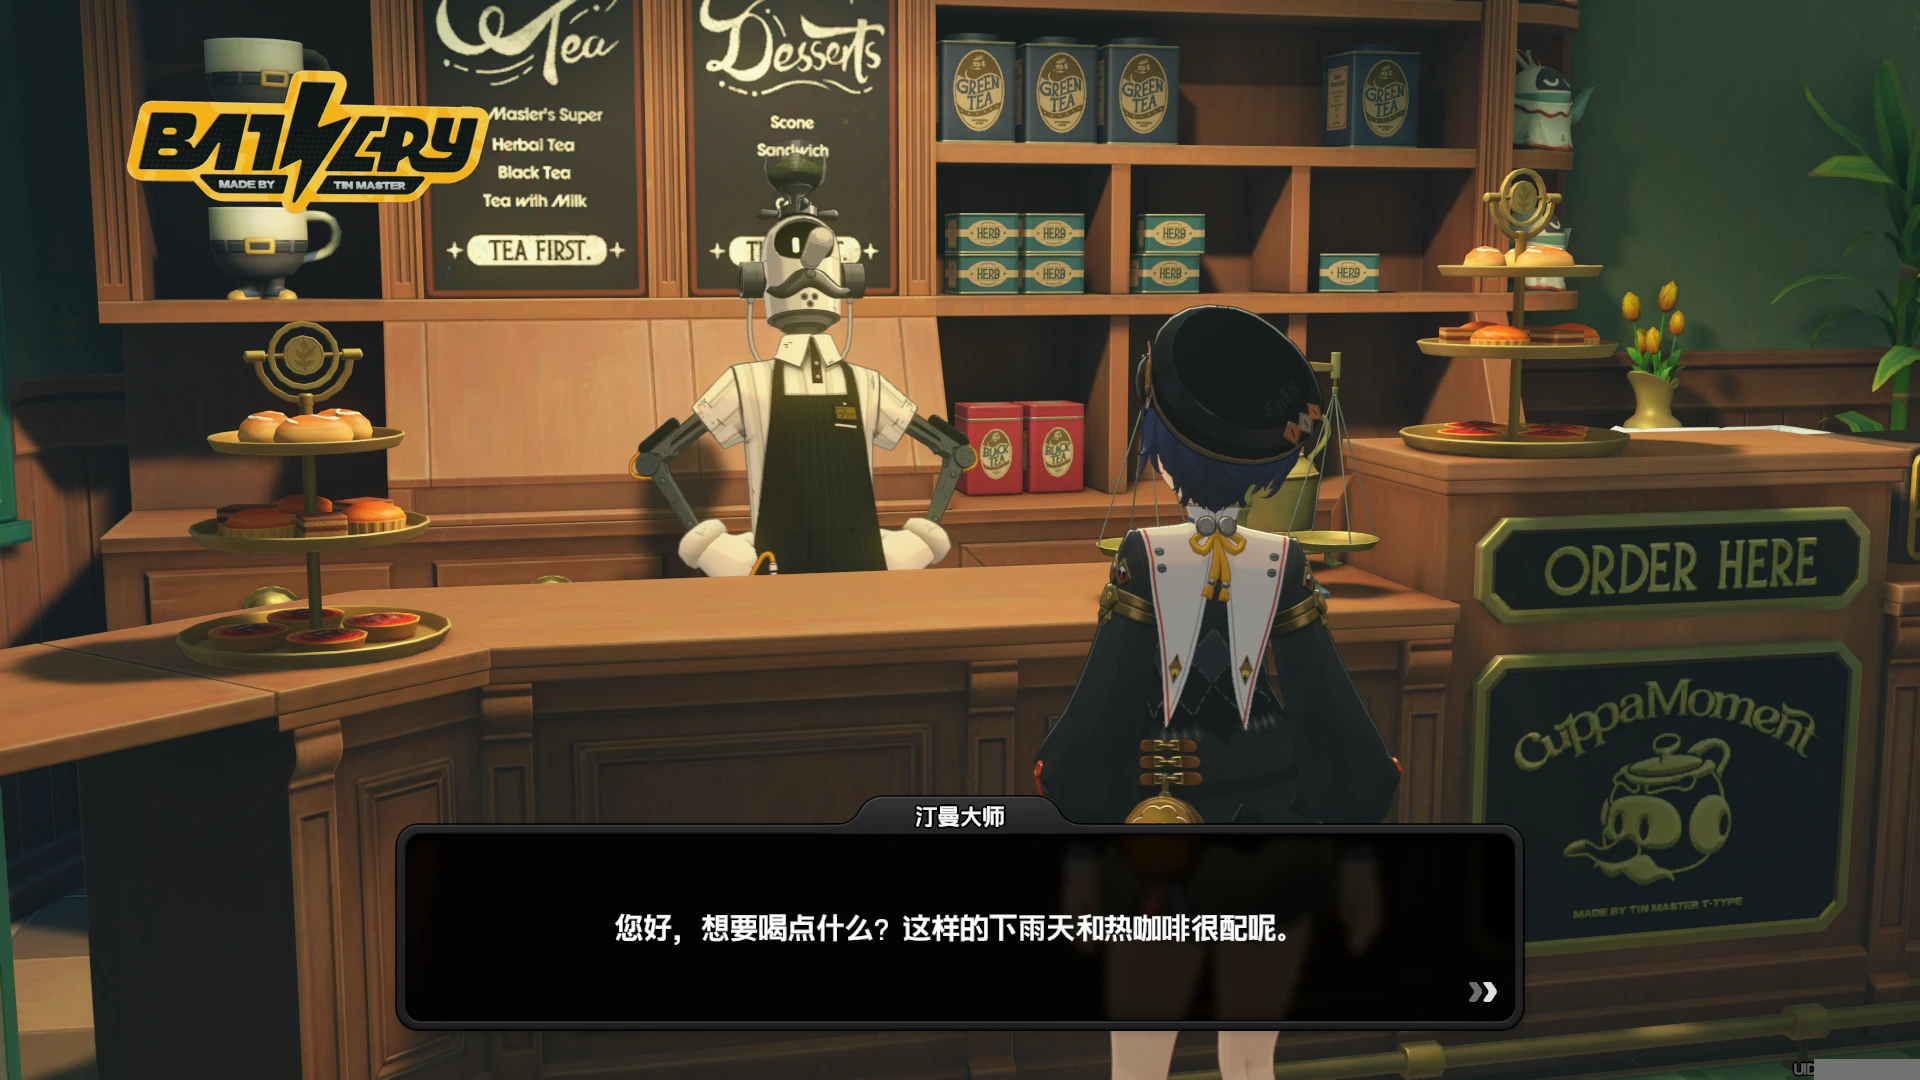
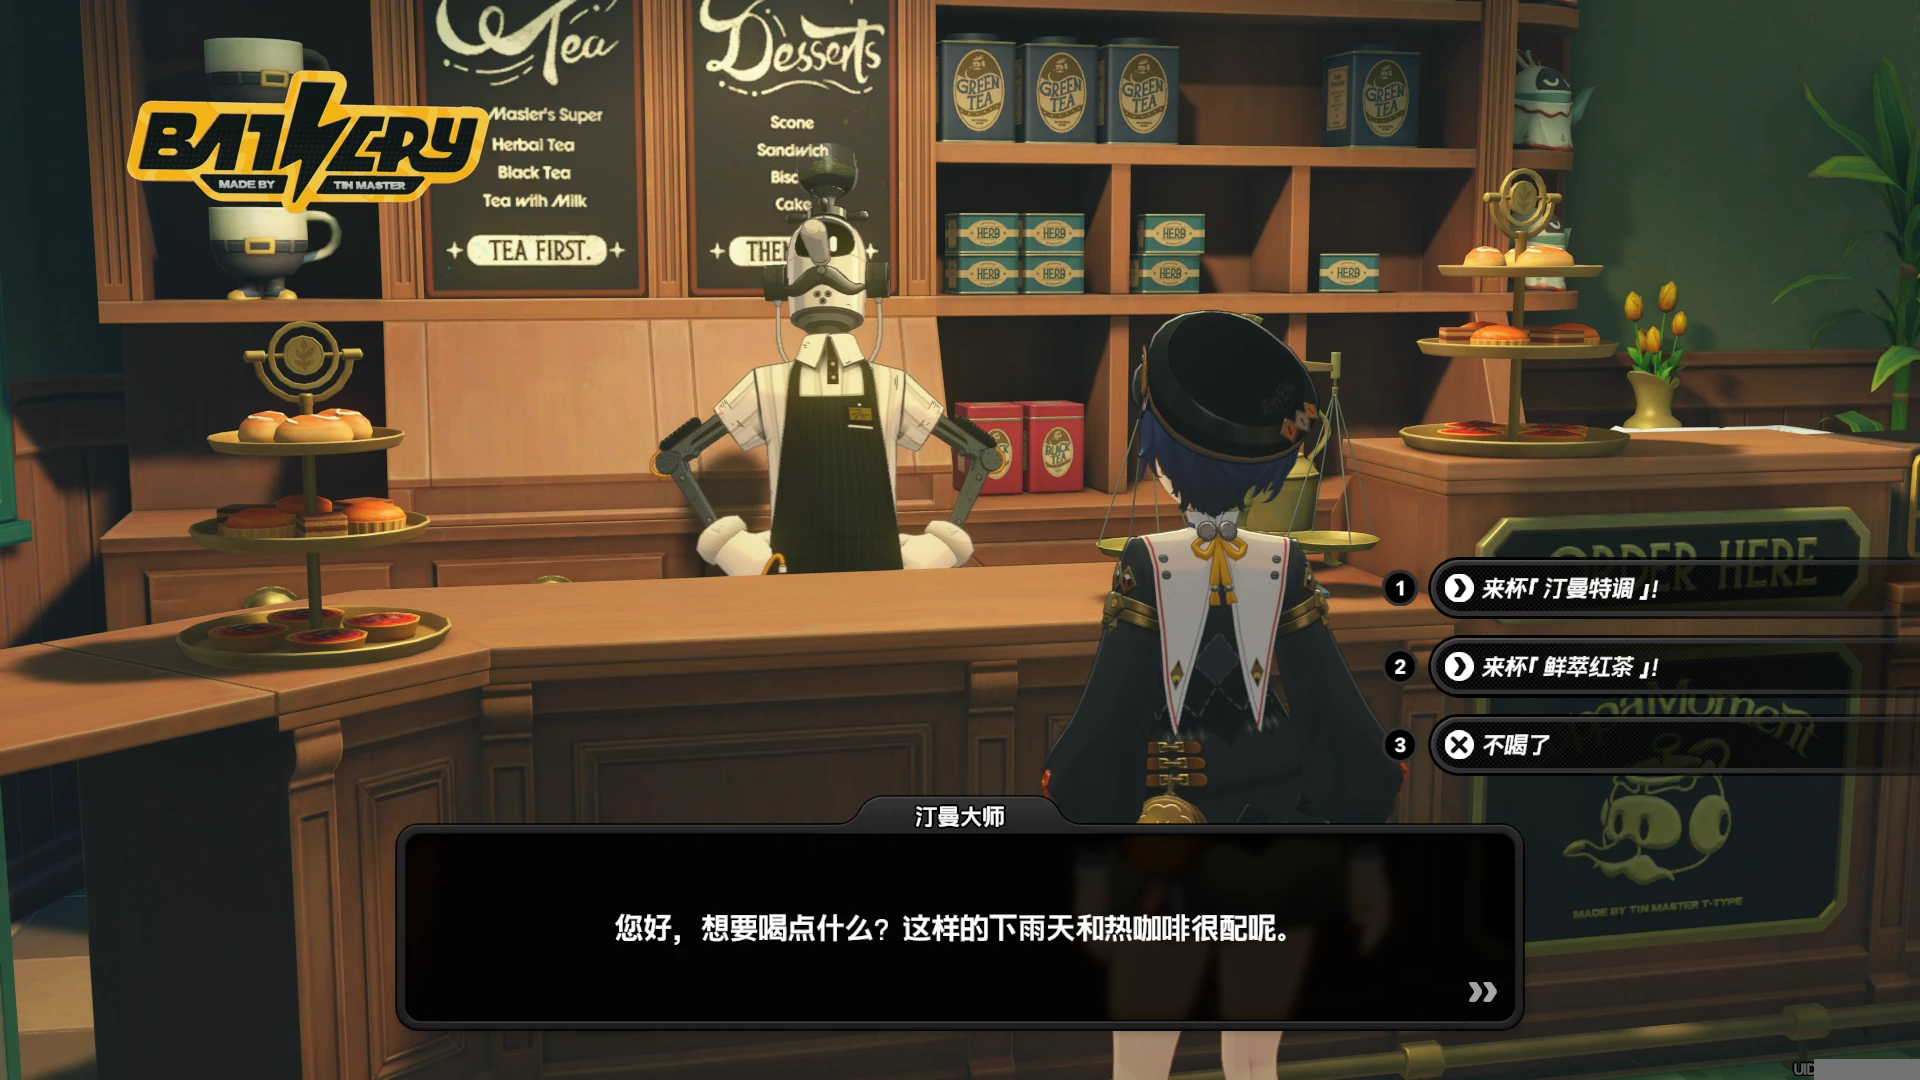
test: coffee 选项态 fixture 换更清晰版 + 恢复 random_play 测试
- 对话点单-选项.webp 换成显示实际候选(汀曼特调/鲜萃红茶/不喝了)的清晰版,便于 mock 测试 OCR
- 恢复 test_random_play_app.py(check_running/wait_run mock 测试,参考模式)

diff --git a/test/zzz_od/application/random_play/test_random_play_app.py b/test/zzz_od/application/random_play/test_random_play_app.py
@@ -1,0 +1,41 @@
+"""RandomPlayApp 录像店营业测试。
+
+覆盖:
+- ``check_running``(识别营业状态):未营业态检测「开始营业」→ 放行走营业流程;正在营业态检测「正在营业」→ ``STATUS_ALREADY_RUNNING`` 关闭页面。
+- ``wait_run``(等待经营画面加载):每日首次「昨日账本」弹窗 → 点关闭后重试,不误判为经营状况。
+
+fixture(`screens/影像店营业/`):`经营状况-未营业.webp`、`经营状况.webp`(正在营业)、`昨日账本.webp`。
+"""
+from test.conftest import TestContext
+
+from zzz_od.application.random_play.random_play_app import RandomPlayApp
+
+
+class TestRandomPlayApp:
+    """录像店营业 app 测试。"""
+
+    def _make_op(self, test_context: TestContext, state: str) -> RandomPlayApp:
+        test_context.mock_screen('影像店营业', state)
+        op = RandomPlayApp(test_context)
+        op.screenshot()
+        return op
+
+    def test_check_running_not_running(self, test_context: TestContext) -> None:
+        """未营业态(开始营业)→ check_running 放行,且不判为已营业。"""
+        op = self._make_op(test_context, '经营状况-未营业')
+        result = op.check_running()
+        assert result.is_success, '未营业态应识别「开始营业」并放行'
+        assert result.status != RandomPlayApp.STATUS_ALREADY_RUNNING, '未营业态不应判为已营业'
+
+    def test_check_running_already_running(self, test_context: TestContext) -> None:
+        """正在营业态 → check_running 返回 STATUS_ALREADY_RUNNING。"""
+        op = self._make_op(test_context, '经营状况')
+        result = op.check_running()
+        assert result.is_success, '正在营业态应识别「正在营业」'
+        assert result.status == RandomPlayApp.STATUS_ALREADY_RUNNING, '应判为已营业'
+
+    def test_wait_run_yesterday_ledger(self, test_context: TestContext) -> None:
+        """每日首次昨日账本弹窗 → wait_run 检测后点关闭并重试,不进经营状况。"""
+        op = self._make_op(test_context, '昨日账本')
+        result = op.wait_run()
+        assert not result.is_success, '昨日账本态应点关闭后 round_retry,不应 round_success'
